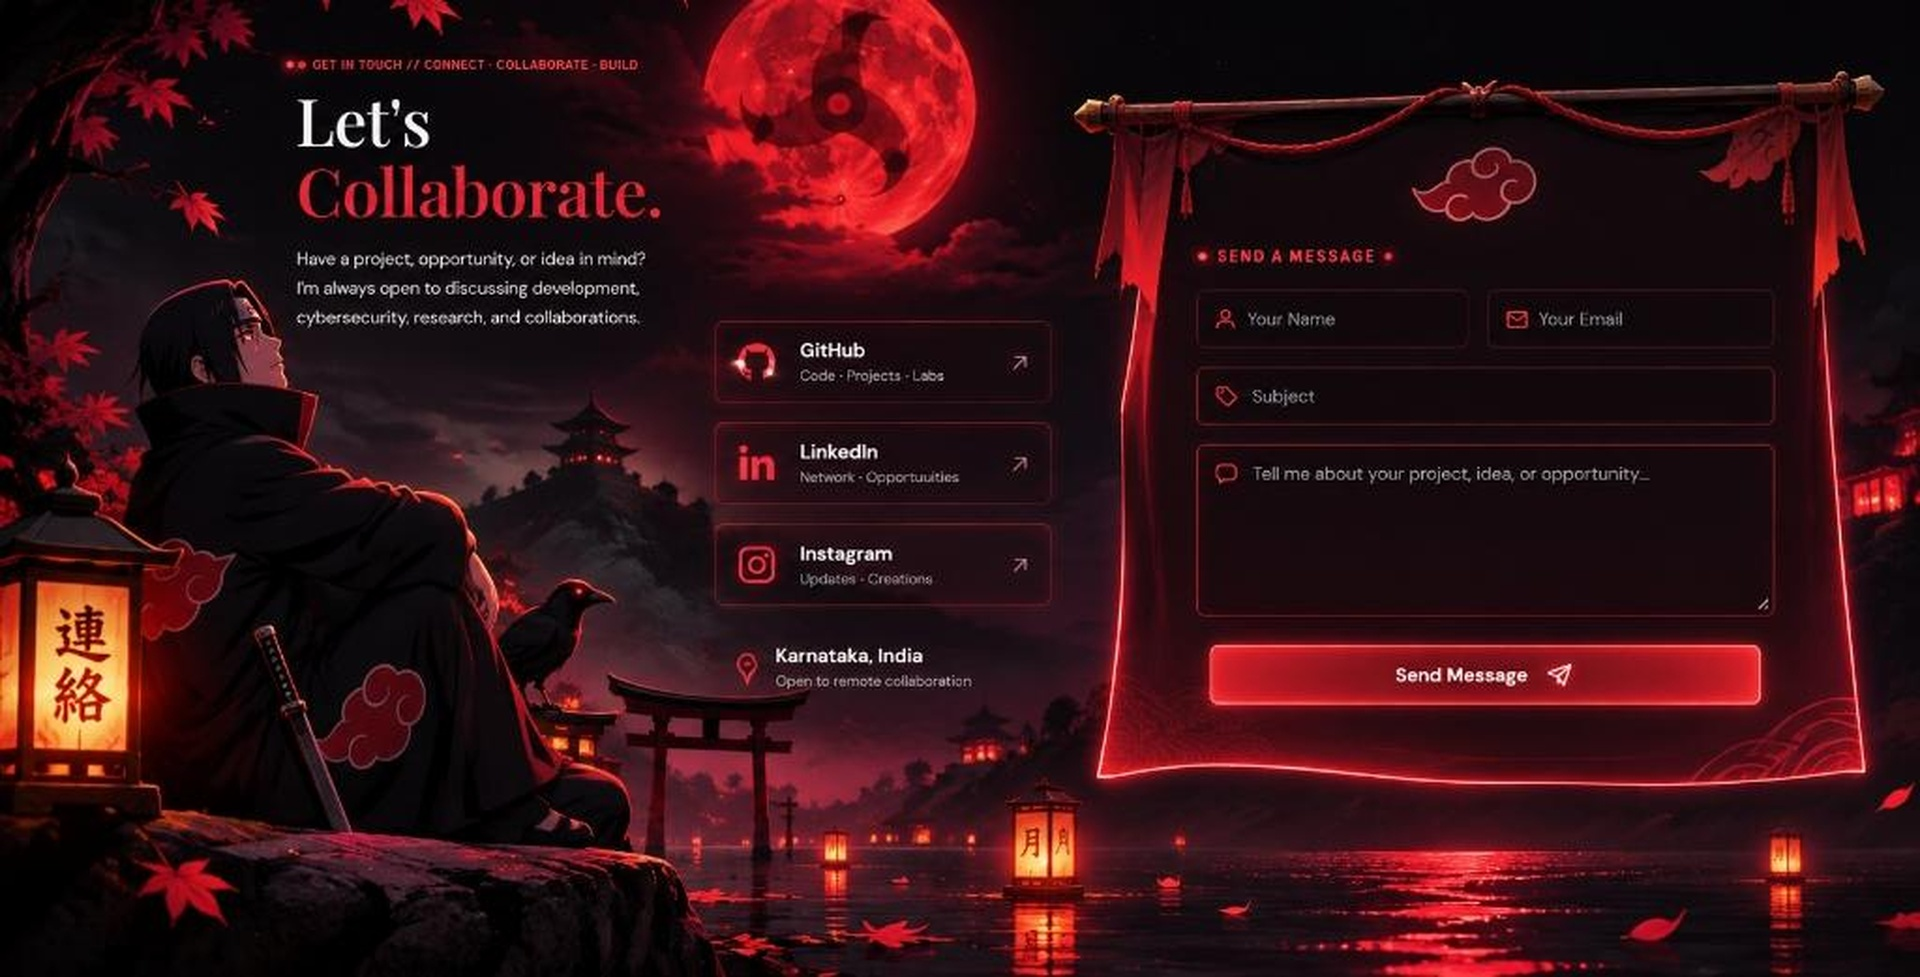
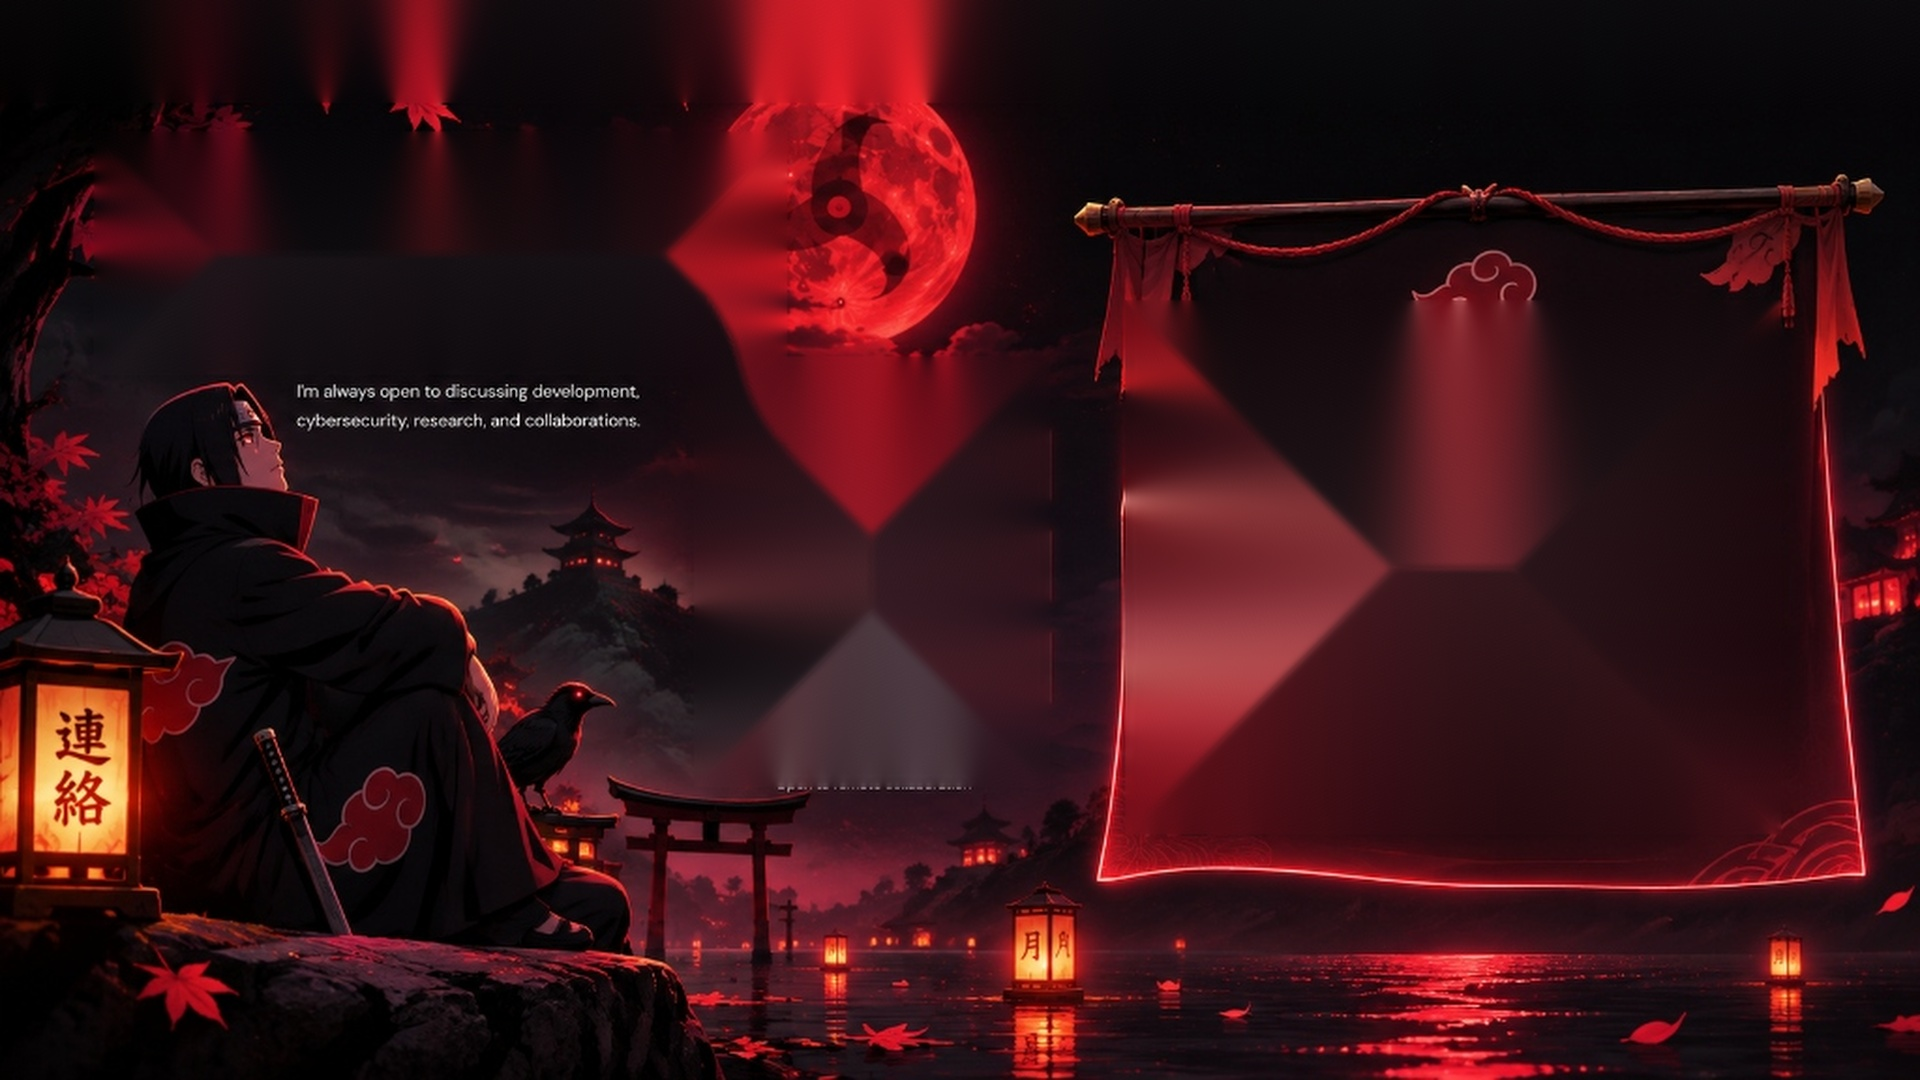
refactor: redesign contact page with crisp vector typography and pure scenic backdrop

diff --git a/components/contact/ShinobiContact.tsx b/components/contact/ShinobiContact.tsx
@@ -1,65 +1,41 @@
 "use client";
 
-import React, { useState } from "react";
+import React from "react";
 import Image from "next/image";
-import { motion, AnimatePresence } from "framer-motion";
-import { CheckCircle2, AlertCircle, Send, Sparkles } from "lucide-react";
+import { motion } from "framer-motion";
+import { Github, Linkedin, Instagram, ArrowUpRight, MapPin } from "lucide-react";
+import ContactScroll from "./ContactScroll";
 import DriftingLeaves from "@/components/skills/DriftingLeaves";
 
 export default function ShinobiContact() {
-  const [formState, setFormState] = useState<"idle" | "sending" | "sent" | "error">("idle");
-  const [errorMessage, setErrorMessage] = useState<string>("");
-
-  const socialLinks = [
-    { name: "GitHub", href: "https://github.com/Karunpoojari7", top: "38.5%" },
-    { name: "LinkedIn", href: "https://www.linkedin.com/", top: "48.5%" },
-    { name: "Instagram", href: "https://www.instagram.com/", top: "58.5%" },
+  const socialChannels = [
+    {
+      title: "GitHub",
+      subtitle: "Code · Projects · Labs",
+      link: "https://github.com/Karunpoojari7",
+      icon: <Github size={18} className="text-red-400" />,
+    },
+    {
+      title: "LinkedIn",
+      subtitle: "Network · Opportunities",
+      link: "https://www.linkedin.com/",
+      icon: <Linkedin size={18} className="text-red-400" />,
+    },
+    {
+      title: "Instagram",
+      subtitle: "Updates · Creations",
+      link: "https://www.instagram.com/",
+      icon: <Instagram size={18} className="text-red-400" />,
+    },
   ];
 
-  async function handleSubmit(e: React.FormEvent<HTMLFormElement>) {
-    e.preventDefault();
-    setFormState("sending");
-    setErrorMessage("");
-
-    const form = e.currentTarget;
-    const formData = new FormData(form);
-    const payload = {
-      name: formData.get("name"),
-      email: formData.get("email"),
-      subject: formData.get("subject"),
-      message: formData.get("message"),
-      inquiryType: "General Collaboration",
-    };
-
-    try {
-      const res = await fetch("/api/contact", {
-        method: "POST",
-        body: JSON.stringify(payload),
-        headers: { "Content-Type": "application/json" },
-      });
-
-      if (!res.ok) {
-        const data = await res.json().catch(() => ({}));
-        throw new Error(data.error || "Submission error");
-      }
-
-      setFormState("sent");
-      form.reset();
-    } catch (err: unknown) {
-      setFormState("error");
-      const msg = err instanceof Error ? err.message : "Submission error";
-      setErrorMessage(msg);
-    }
-  }
-
   return (
-    <section className="relative w-full h-[calc(100vh-72px)] bg-black overflow-hidden flex items-center justify-center select-none">
-      {/* 1. CINEMATIC 16:9 VIEWPORT CONTAINER MATCHING REFERENCE IMAGE 4 */}
-      <div className="relative w-full h-full max-h-[calc(100vh-72px)] aspect-[1024/521] mx-auto overflow-hidden">
-        {/* Full Cinematic Scene Artwork */}
+    <section className="relative w-full min-h-[calc(100vh-72px)] bg-black overflow-hidden flex flex-col justify-between select-none">
+      {/* 1. CINEMATIC CLEAN BACKGROUND ARTWORK (Blood Moon, Lake, Torii, Itachi on rock, Lantern, Water) */}
+      <div className="absolute inset-0 z-0">
         <Image
           src="/assets/itachi/shinobi-contact-backdrop.jpg"
-          alt="Shinobi Contact Scene - Exact Visual Reference"
+          alt="Shinobi Communication Scene - Clean Backdrop"
           fill
           priority
           quality={100}
@@ -67,167 +43,119 @@ export default function ShinobiContact() {
           className="object-cover object-center"
         />
 
-        {/* Ambient Red Glow Pulse on Sharingan Moon & Lanterns */}
+        {/* Ambient Red Glow Pulse on Sharingan Moon & Floating Lanterns */}
         <div
           className="pointer-events-none absolute inset-0 animate-red-pulse opacity-20"
           style={{
             background:
-              "radial-gradient(ellipse 65% 50% at 45% 35%, rgba(225, 29, 46, 0.35) 0%, transparent 70%)",
+              "radial-gradient(ellipse 65% 50% at 45% 35%, rgba(225, 29, 46, 0.35) 0%, rgba(130, 10, 22, 0.1) 50%, transparent 75%)",
           }}
         />
 
-        {/* Drifting Leaves Layer */}
-        <DriftingLeaves />
+        {/* Top & Bottom Ambient Edge Blending */}
+        <div className="pointer-events-none absolute top-0 left-0 right-0 h-16 bg-gradient-to-b from-black/80 via-transparent to-transparent" />
+        <div className="pointer-events-none absolute bottom-0 left-0 right-0 h-20 bg-gradient-to-t from-black/80 via-transparent to-transparent" />
+      </div>
 
-        {/* 2. INTERACTIVE SOCIAL LINK HOTSPOTS OVER SCENE CARDS */}
-        {socialLinks.map((soc) => (
-          <a
-            key={soc.name}
-            href={soc.href}
-            target="_blank"
-            rel="noreferrer"
-            style={{
-              position: "absolute",
-              left: "37%",
-              top: soc.top,
-              width: "17.2%",
-              height: "8.6%",
-            }}
-            className="group z-20 rounded-lg cursor-pointer transition-all duration-200"
-            aria-label={`Open ${soc.name}`}
-          >
-            <div className="w-full h-full rounded-lg border border-transparent group-hover:border-red-500/70 group-hover:bg-red-950/20 shadow-none group-hover:shadow-[0_0_15px_rgba(225,29,46,0.35)] transition-all" />
-          </a>
-        ))}
+      {/* 2. DRIFTING MAPLE LEAVES LAYER */}
+      <DriftingLeaves />
 
-        {/* 3. WORKING INTERACTIVE FORM EMBEDDED DIRECTLY IN THE HANGING SCROLL */}
-        <form onSubmit={handleSubmit} className="z-20">
-          {/* Your Name */}
-          <input
-            id="name"
-            name="name"
-            type="text"
-            required
-            aria-label="Your Name"
-            style={{
-              position: "absolute",
-              left: "62%",
-              top: "35.5%",
-              width: "14%",
-              height: "7.5%",
-            }}
-            className="bg-black/40 hover:bg-black/60 focus:bg-black/85 text-white font-sans text-xs px-2.5 rounded border border-transparent focus:border-red-500/80 focus:outline-none focus:ring-1 focus:ring-red-500/50 transition-all placeholder:text-transparent"
-          />
-
-          {/* Your Email */}
-          <input
-            id="email"
-            name="email"
-            type="email"
-            required
-            aria-label="Your Email"
-            style={{
-              position: "absolute",
-              left: "77.5%",
-              top: "35.5%",
-              width: "14.2%",
-              height: "7.5%",
-            }}
-            className="bg-black/40 hover:bg-black/60 focus:bg-black/85 text-white font-sans text-xs px-2.5 rounded border border-transparent focus:border-red-500/80 focus:outline-none focus:ring-1 focus:ring-red-500/50 transition-all placeholder:text-transparent"
-          />
-
-          {/* Subject */}
-          <input
-            id="subject"
-            name="subject"
-            type="text"
-            required
-            aria-label="Subject"
-            style={{
-              position: "absolute",
-              left: "62%",
-              top: "44.6%",
-              width: "29.7%",
-              height: "7.5%",
-            }}
-            className="bg-black/40 hover:bg-black/60 focus:bg-black/85 text-white font-sans text-xs px-2.5 rounded border border-transparent focus:border-red-500/80 focus:outline-none focus:ring-1 focus:ring-red-500/50 transition-all placeholder:text-transparent"
-          />
-
-          {/* Message Textarea */}
-          <textarea
-            id="message"
-            name="message"
-            rows={3}
-            required
-            aria-label="Message"
-            style={{
-              position: "absolute",
-              left: "62%",
-              top: "54%",
-              width: "29.7%",
-              height: "16%",
-            }}
-            className="bg-black/40 hover:bg-black/60 focus:bg-black/85 text-white font-sans text-xs p-2.5 rounded border border-transparent focus:border-red-500/80 focus:outline-none focus:ring-1 focus:ring-red-500/50 transition-all placeholder:text-transparent resize-none"
-          />
-
-          {/* Send Message Button Trigger */}
-          <button
-            type="submit"
-            disabled={formState === "sending"}
-            aria-label="Send Message"
-            style={{
-              position: "absolute",
-              left: "62.4%",
-              top: "73.5%",
-              width: "29.3%",
-              height: "7.7%",
-            }}
-            className="group cursor-pointer rounded bg-transparent hover:bg-red-500/10 active:scale-[0.99] border border-transparent focus:border-red-400 focus:outline-none transition-all flex items-center justify-center"
-          >
-            {formState === "sending" && (
-              <span className="font-mono text-xs font-bold text-white tracking-wider bg-red-950/90 px-3 py-1 rounded shadow-[0_0_15px_#ff263b] animate-pulse">
-                Transmitting...
-              </span>
-            )}
-          </button>
-        </form>
-
-        {/* 4. NOTIFICATION POPUP ON SUBMISSION */}
-        <AnimatePresence>
-          {formState === "sent" && (
+      {/* 3. FOREGROUND CRISP UI — TWO-COLUMN LAYOUT MATCHING REFERENCE IMAGE 3 */}
+      <div className="relative z-20 w-full max-w-[1440px] mx-auto px-4 sm:px-6 lg:px-10 flex-1 flex flex-col justify-between py-6 sm:py-8 lg:py-10">
+        <div className="grid grid-cols-1 lg:grid-cols-12 gap-8 lg:gap-10 items-center flex-1">
+          {/* Left Column: Eyebrow, Heading, Description, 3 Social Cards, Location Badge */}
+          <div className="lg:col-span-6 space-y-5 max-w-lg self-start lg:pt-4">
+            {/* Eyebrow */}
             <motion.div
-              initial={{ opacity: 0, y: 10, scale: 0.95 }}
-              animate={{ opacity: 1, y: 0, scale: 1 }}
-              exit={{ opacity: 0, y: 10 }}
-              className="absolute bottom-6 right-8 z-50 p-4 rounded-xl bg-[#090204]/98 border border-emerald-500/70 shadow-[0_0_25px_rgba(16,185,129,0.35)] flex items-center gap-3 text-xs text-emerald-300 font-sans"
+              initial={{ opacity: 0, y: 10 }}
+              animate={{ opacity: 1, y: 0 }}
+              transition={{ duration: 0.5 }}
+              className="inline-flex items-center gap-2 font-mono text-[10px] tracking-[0.22em] text-red-500 uppercase"
             >
-              <CheckCircle2 size={18} className="text-emerald-400 shrink-0" />
-              <div>
-                <p className="font-bold text-white">Transmission Dispatched</p>
-                <p className="text-[11px] text-neutral-300">
-                  Your message has been received. Karun H G will get back to you soon!
-                </p>
+              <span className="w-1.5 h-1.5 rounded-full bg-red-500 shadow-[0_0_8px_#ff263b] animate-pulse" />
+              GET IN TOUCH // CONNECT · COLLABORATE · BUILD
+            </motion.div>
+
+            {/* Main Headline */}
+            <motion.h1
+              initial={{ opacity: 0, y: 16 }}
+              animate={{ opacity: 1, y: 0 }}
+              transition={{ duration: 0.6, delay: 0.1 }}
+              className="text-4xl sm:text-5xl lg:text-6xl font-serif font-bold text-white tracking-tight leading-[1.08]"
+              style={{ fontFamily: "'Playfair Display', serif" }}
+            >
+              Let&apos;s<br />
+              <em className="text-red-500 italic">Collaborate.</em>
+            </motion.h1>
+
+            {/* Supporting Text */}
+            <motion.p
+              initial={{ opacity: 0, y: 14 }}
+              animate={{ opacity: 1, y: 0 }}
+              transition={{ duration: 0.6, delay: 0.15 }}
+              className="text-xs sm:text-sm text-neutral-300 font-sans leading-relaxed max-w-md"
+            >
+              Have a project, opportunity, or idea in mind? I&apos;m always open to discussing development, cybersecurity, research, and collaborations.
+            </motion.p>
+
+            {/* 3 Social Cards (GitHub, LinkedIn, Instagram) */}
+            <motion.div
+              initial={{ opacity: 0, y: 16 }}
+              animate={{ opacity: 1, y: 0 }}
+              transition={{ duration: 0.6, delay: 0.2 }}
+              className="space-y-2.5 pt-2 max-w-sm"
+            >
+              {socialChannels.map((soc) => (
+                <a
+                  key={soc.title}
+                  href={soc.link}
+                  target="_blank"
+                  rel="noreferrer"
+                  className="group flex items-center justify-between p-3 rounded-lg bg-[#080204]/92 border border-red-950/80 hover:border-red-500/70 hover:bg-red-950/25 backdrop-blur-md shadow-[0_0_15px_rgba(0,0,0,0.85)] hover:shadow-[0_0_20px_rgba(225,29,46,0.3)] transition-all duration-200"
+                >
+                  <div className="flex items-center gap-3">
+                    <div className="w-8 h-8 rounded bg-red-950/40 border border-red-900/60 flex items-center justify-center shrink-0 group-hover:scale-105 transition-transform">
+                      {soc.icon}
+                    </div>
+                    <div>
+                      <div className="font-serif text-xs font-bold text-white group-hover:text-red-400 transition-colors">
+                        {soc.title}
+                      </div>
+                      <div className="font-mono text-[9px] text-neutral-400">
+                        {soc.subtitle}
+                      </div>
+                    </div>
+                  </div>
+                  <ArrowUpRight
+                    size={14}
+                    className="text-neutral-500 group-hover:text-red-400 group-hover:translate-x-0.5 group-hover:-translate-y-0.5 transition-all"
+                  />
+                </a>
+              ))}
+
+              {/* Location Badge */}
+              <div className="flex items-center gap-2.5 px-3 py-2.5 rounded-lg bg-black/60 border border-red-950/60 font-mono text-[10px] text-neutral-400">
+                <MapPin size={13} className="text-red-500 shrink-0" />
+                <div>
+                  <span className="text-neutral-200 font-semibold">Karnataka, India</span>
+                  <span className="text-neutral-500 ml-2">· Open to remote collaboration</span>
+                </div>
               </div>
             </motion.div>
-          )}
+          </div>
 
-          {formState === "error" && (
-            <motion.div
-              initial={{ opacity: 0, y: 10, scale: 0.95 }}
-              animate={{ opacity: 1, y: 0, scale: 1 }}
-              exit={{ opacity: 0, y: 10 }}
-              className="absolute bottom-6 right-8 z-50 p-4 rounded-xl bg-[#090204]/98 border border-red-500/70 shadow-[0_0_25px_rgba(225,29,46,0.35)] flex items-center gap-3 text-xs text-red-300 font-sans"
-            >
-              <AlertCircle size={18} className="text-red-400 shrink-0" />
-              <div>
-                <p className="font-bold text-white">Dispatch Preview Notice</p>
-                <p className="text-[11px] text-neutral-300">
-                  {errorMessage || "Direct dispatch active. You can also connect via GitHub or LinkedIn."}
-                </p>
-              </div>
-            </motion.div>
-          )}
-        </AnimatePresence>
+          {/* Right Column: Exactly ONE Hanging Contact Scroll Form matching Reference Image 3 */}
+          <div className="lg:col-span-6 flex justify-center lg:justify-end items-center pt-2">
+            <ContactScroll />
+          </div>
+        </div>
+
+        {/* Minimal Footer Attribution */}
+        <div className="pt-4 text-center">
+          <p className="text-[10px] font-mono tracking-wider text-neutral-500">
+            KARUN H G // TRANSMISSION DISPATCH & SECURE COMMS
+          </p>
+        </div>
       </div>
     </section>
   );
